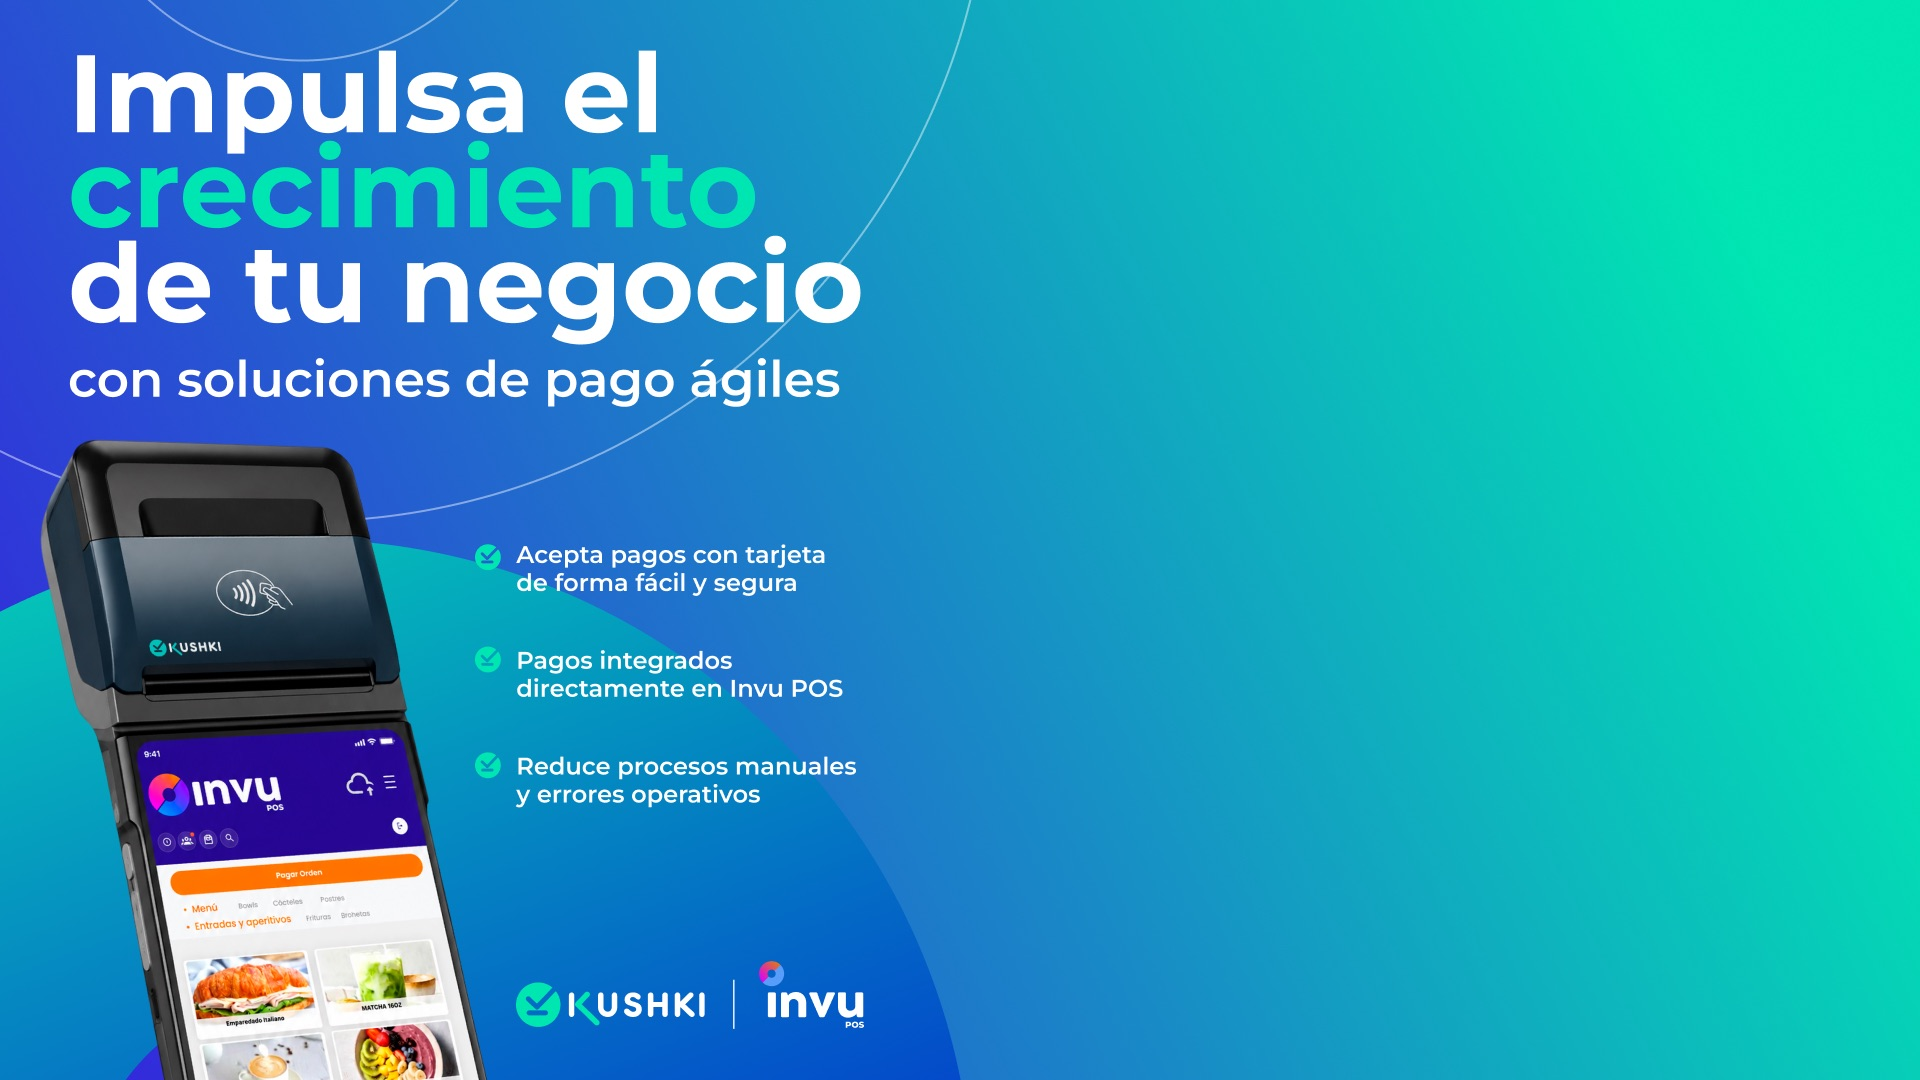
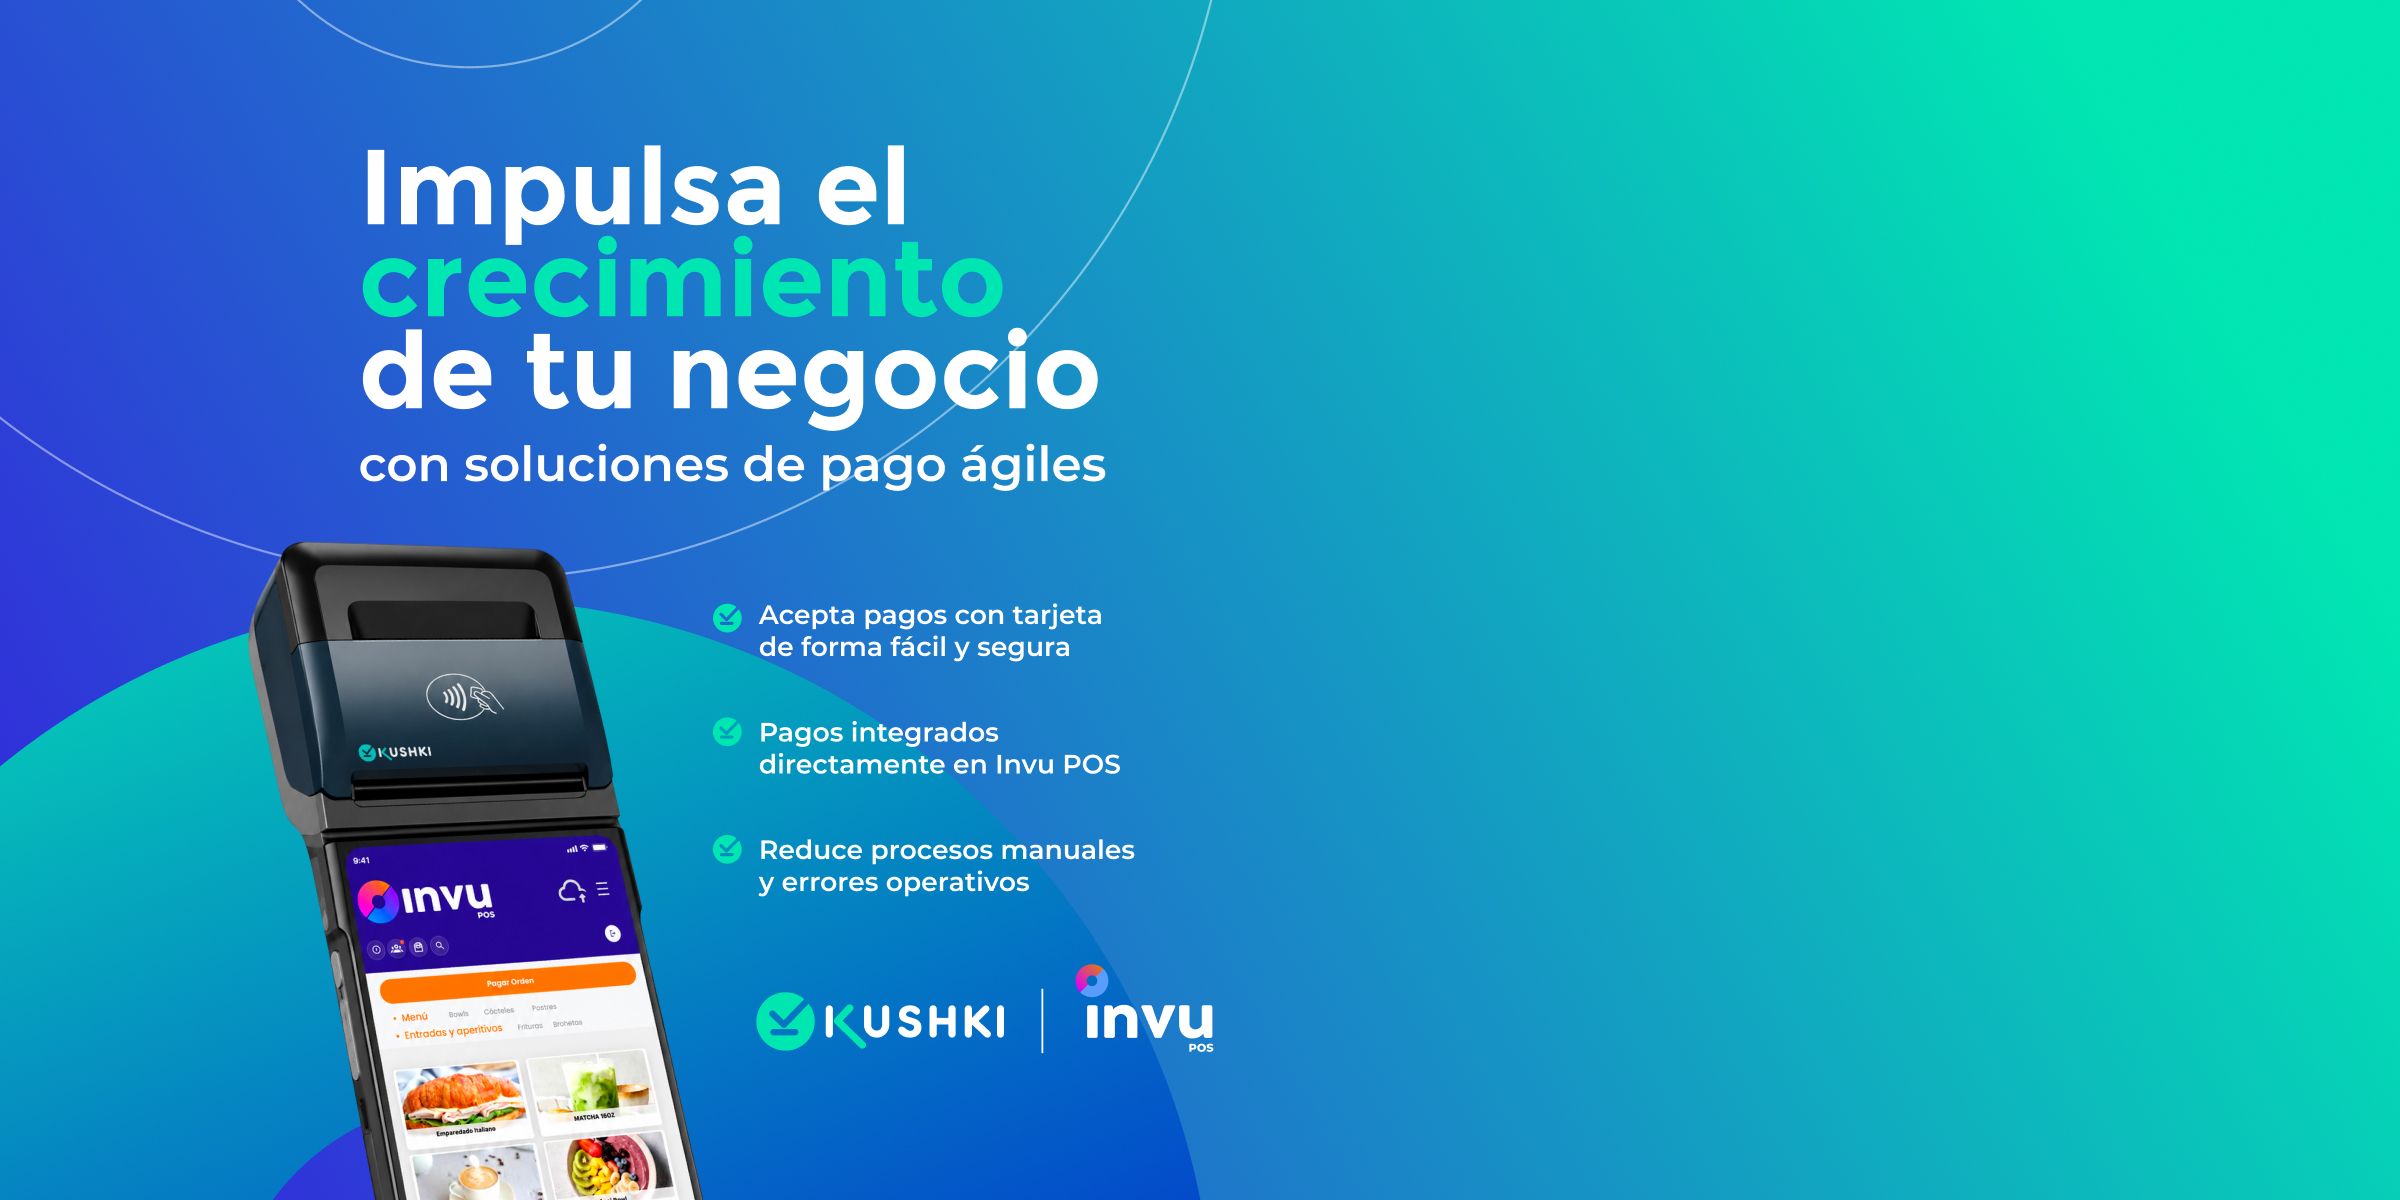
Arte de desktop final 2400x1200 y CSS simplificado a cover
La imagen nueva trae margen de sangrado alrededor del contenido, asi
que ya no hace falta ajustarla al alto ni rellenar los costados:
background-size: cover llena ancho y alto en cualquier monitor y lo
unico que se recorta es degradado vacio.

Elimina las tres capas de degradado de parche y el padding de 30px que
existian solo para tapar las franjas que dejaba el arte 16:9.

Se conserva el JPG que exporto diseno (1.2 MB) en vez de recomprimirlo,
porque a calidad 80 se notaba perdida en los degradados.

Changed region(s): [[0.0, 0.0306, 0.5, 1.0], [0.2812, 0.4278, 0.3125, 0.4583]]

diff --git a/index.html b/index.html
@@ -267,34 +267,15 @@
     @media (min-width: 861px) {
       .page {
         min-height: 100vh;
-        padding: 30px 0;   /* aire arriba y abajo */
 
-        /* El arte se ajusta al ALTO de la pantalla (no al ancho) y va
-           centrado, con 30px libres arriba y abajo. Detrás, un degradado
-           que continúa los colores de los bordes del arte (azul →
-           turquesa) para que el relleno sea imperceptible. */
-        background-image:
-          /* 1 · el arte, ajustado al alto y centrado */
-          url('./img-desktop.jpg'),
-          /* 2 · franja izquierda: réplica del degradado del borde
-                 izquierdo del arte (azul → cyan hacia abajo) */
-          linear-gradient(180deg, #2851d3 0%, #2b44d5 25%, #2f38d8 50%, #05a4bd 75%, #057dc3 100%),
-          /* 3 · franja derecha: réplica del borde derecho (turquesa) */
-          linear-gradient(180deg, #01e6b2 0%, #05d2b6 20%, #09c3b9 50%, #0fb0be 85%, #07cfb8 100%),
-          /* 4 · bandas de 30px arriba/abajo: réplica del barrido
-                 horizontal azul → turquesa de los bordes del arte */
-          linear-gradient(90deg, #2851d3 0%, #2851d3 15%, #1f6bcb 38%, #10a8bf 62%, #04d4b6 84%, #01e6b2 92%, #01e6b2 100%);
-        background-size:
-          auto calc(100vh - 60px),
-          50% calc(100vh - 60px),
-          50% calc(100vh - 60px),
-          cover;
-        background-position:
-          center 30px,
-          left 30px,
-          right 30px,
-          center center;
-        background-repeat: no-repeat, no-repeat, no-repeat, no-repeat;
+        /* El arte (2400 × 1200) trae margen de sangrado alrededor del
+           contenido, así que con cover llena ancho y alto en cualquier
+           monitor y lo único que se recorta es degradado vacío.
+           Ya no hacen falta capas de relleno: nunca quedan franjas. */
+        background-image: url('./img-desktop.jpg');
+        background-size: cover;
+        background-position: center center;
+        background-repeat: no-repeat;
 
         display: grid;
         grid-template-columns: 54% 46%;
